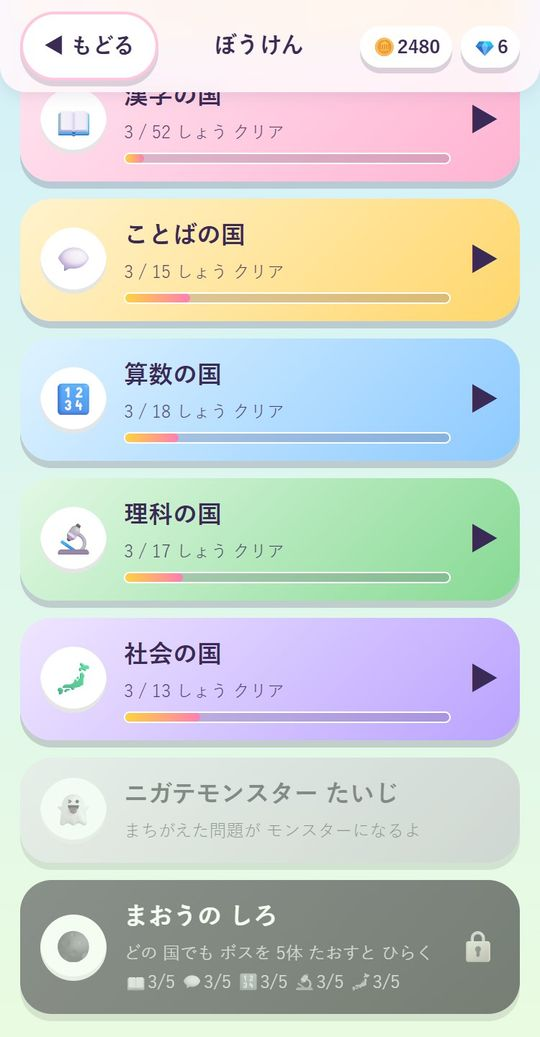
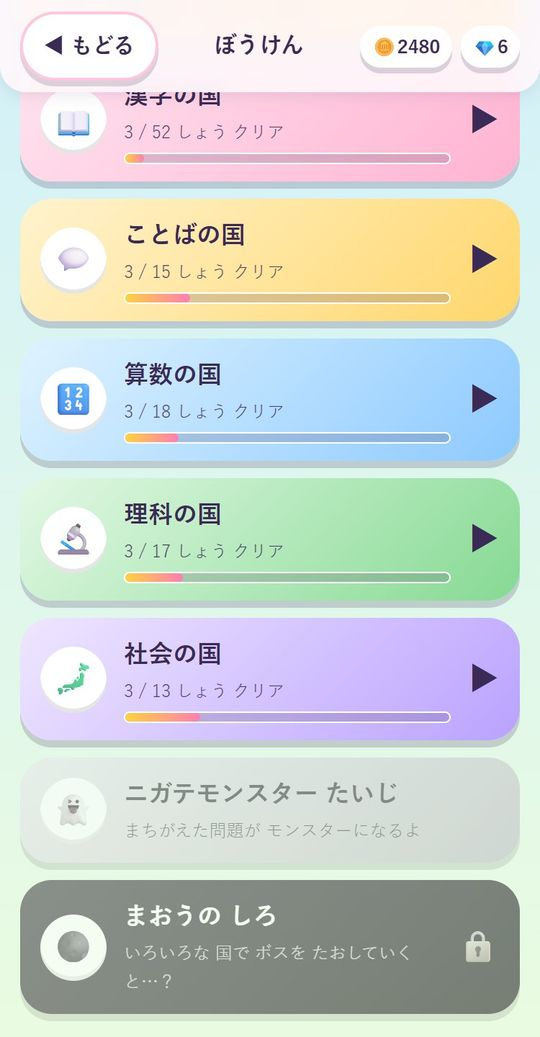
まおうの城のボタンの進み具合表示をヒントに（v41）

Changed region(s): [[0.237, 0.8949, 0.7704, 0.9566]]

diff --git a/extra.js b/extra.js
@@ -69,13 +69,11 @@ function maouEnemies(ch) {
 // 地図に 出す まおうの ボタン
 function maouButton() {
   const o1 = maouOpen(1), o2 = maouOpen(2), c1 = stStars("z1-4") > 0;
-  const prog = WORLDS.filter((w) => activeChapters(w.id).length).map((w) => `${w.icon}${Math.min(bossCount(w.id), maouNeed(w.id))}/${maouNeed(w.id)}`).join(" ");
   let h = `<button class="stage maou ${o1 ? "" : "locked"}" ${o1 ? `onclick="startBattle('z1-4')"` : ""}>
-    <span class="snum">🌑</span><span class="sinfo"><b>まおうの しろ</b><small>${o1 ? (c1 ? `⭐${stStars("z1-4")}　もういちど いどめるよ` : "5つの 国の ちからを ためされる…") : `どの 国でも ボスを 5体 たおすと ひらく<br>${prog}`}</small></span><span class="sstate">${o1 ? "▶" : "🔒"}</span></button>`;
+    <span class="snum">🌑</span><span class="sinfo"><b>まおうの しろ</b><small>${o1 ? (c1 ? `⭐${stStars("z1-4")}　もういちど いどめるよ` : "5つの 国の ちからを ためされる…") : "いろいろな 国で ボスを たおしていくと…？"}</small></span><span class="sstate">${o1 ? "▶" : "🔒"}</span></button>`;
   if (c1) {
-    const left = WORLDS.filter((w) => activeChapters(w.id).length).map((w) => `${w.icon}${bossCount(w.id)}/${activeChapters(w.id).length}`).join(" ");
     h += `<button class="stage maou2 ${o2 ? "" : "locked"}" ${o2 ? `onclick="startBattle('z2-4')"` : ""}>
-      <span class="snum">🌌</span><span class="sinfo"><b>しんの まおうの しろ</b><small>${o2 ? "さいごの たたかい…！" : `すべての 国の 章を クリアすると ひらく<br>${left}`}</small></span><span class="sstate">${o2 ? "▶" : "🔒"}</span></button>`;
+      <span class="snum">🌌</span><span class="sinfo"><b>しんの まおうの しろ</b><small>${o2 ? "さいごの たたかい…！" : "すべての 国の 章を クリアすると…？"}</small></span><span class="sstate">${o2 ? "▶" : "🔒"}</span></button>`;
   }
   return h;
 }

diff --git a/sw.js b/sw.js
@@ -1,6 +1,6 @@
 // オフラインでも遊べるように、アプリのファイルを保存しておく
 // ※アプリを更新したら VERSION の数字を上げる
-const VERSION = "puni-v40";
+const VERSION = "puni-v41";
 const FILES = ["./", "index.html", "style.css", "data.js", "world.js", "c_kanji.js", "c_kotoba.js", "c_math.js", "c_sci.js", "c_soc.js", "cloud.js", "pets.js", "music.js", "gear.js", "extra.js", "treasure.js", "hiken.js", "yomi.js", "app.js", "manifest.webmanifest", "icons/icon-192.png", "icons/apple-touch-icon.png"];
 
 self.addEventListener("install", (e) => {
